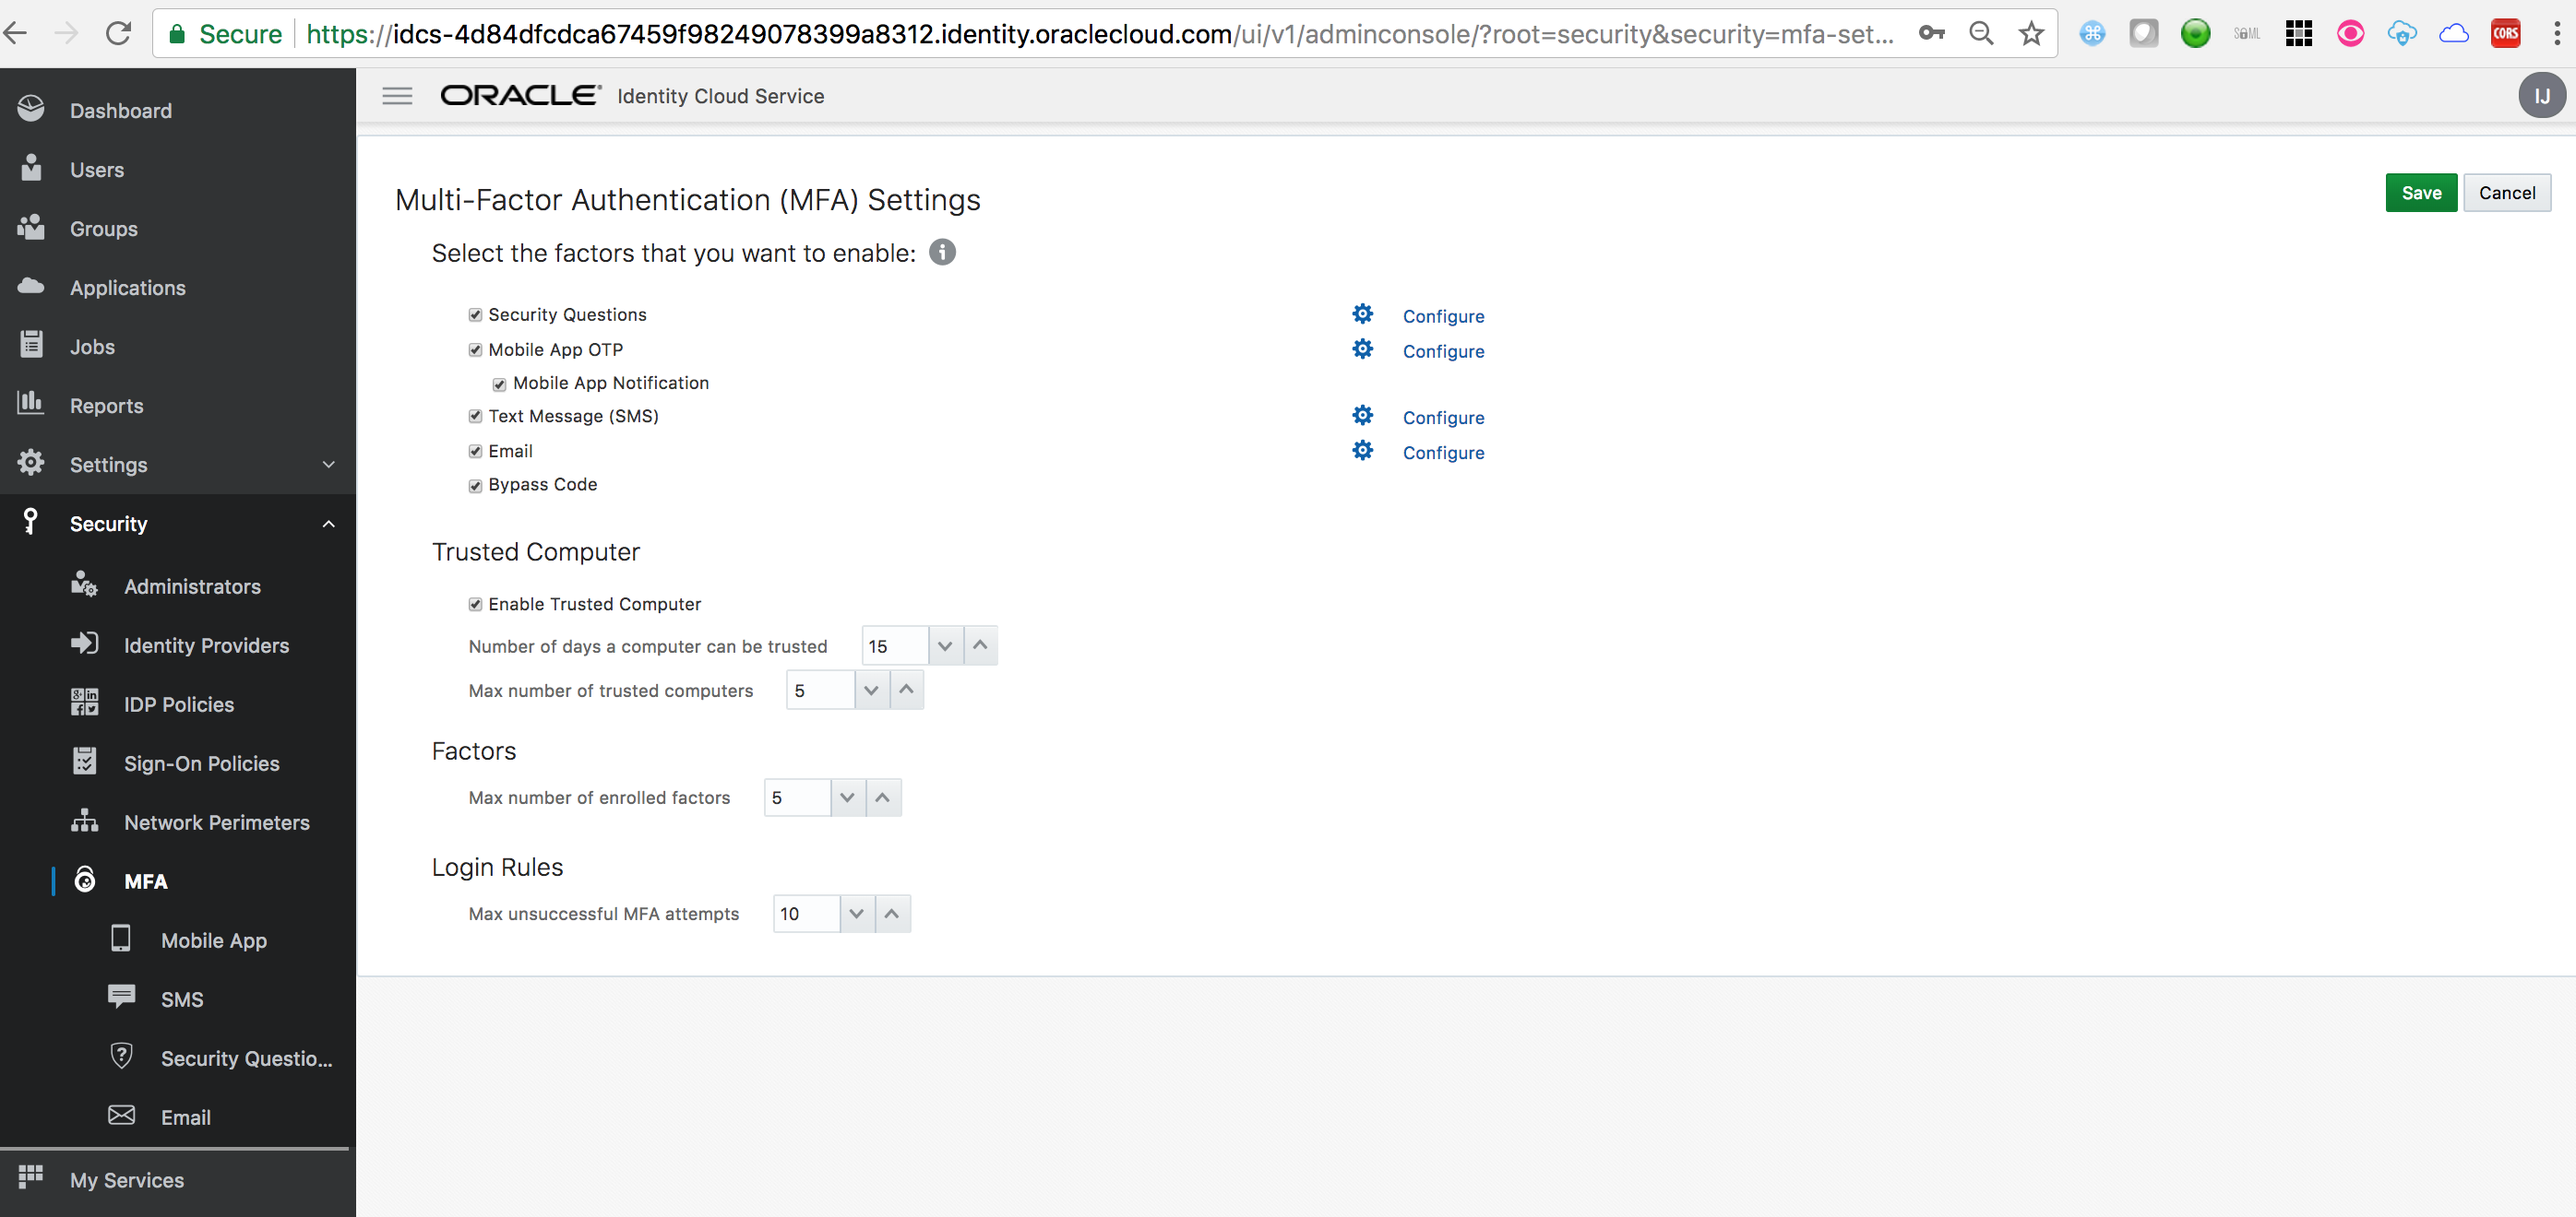
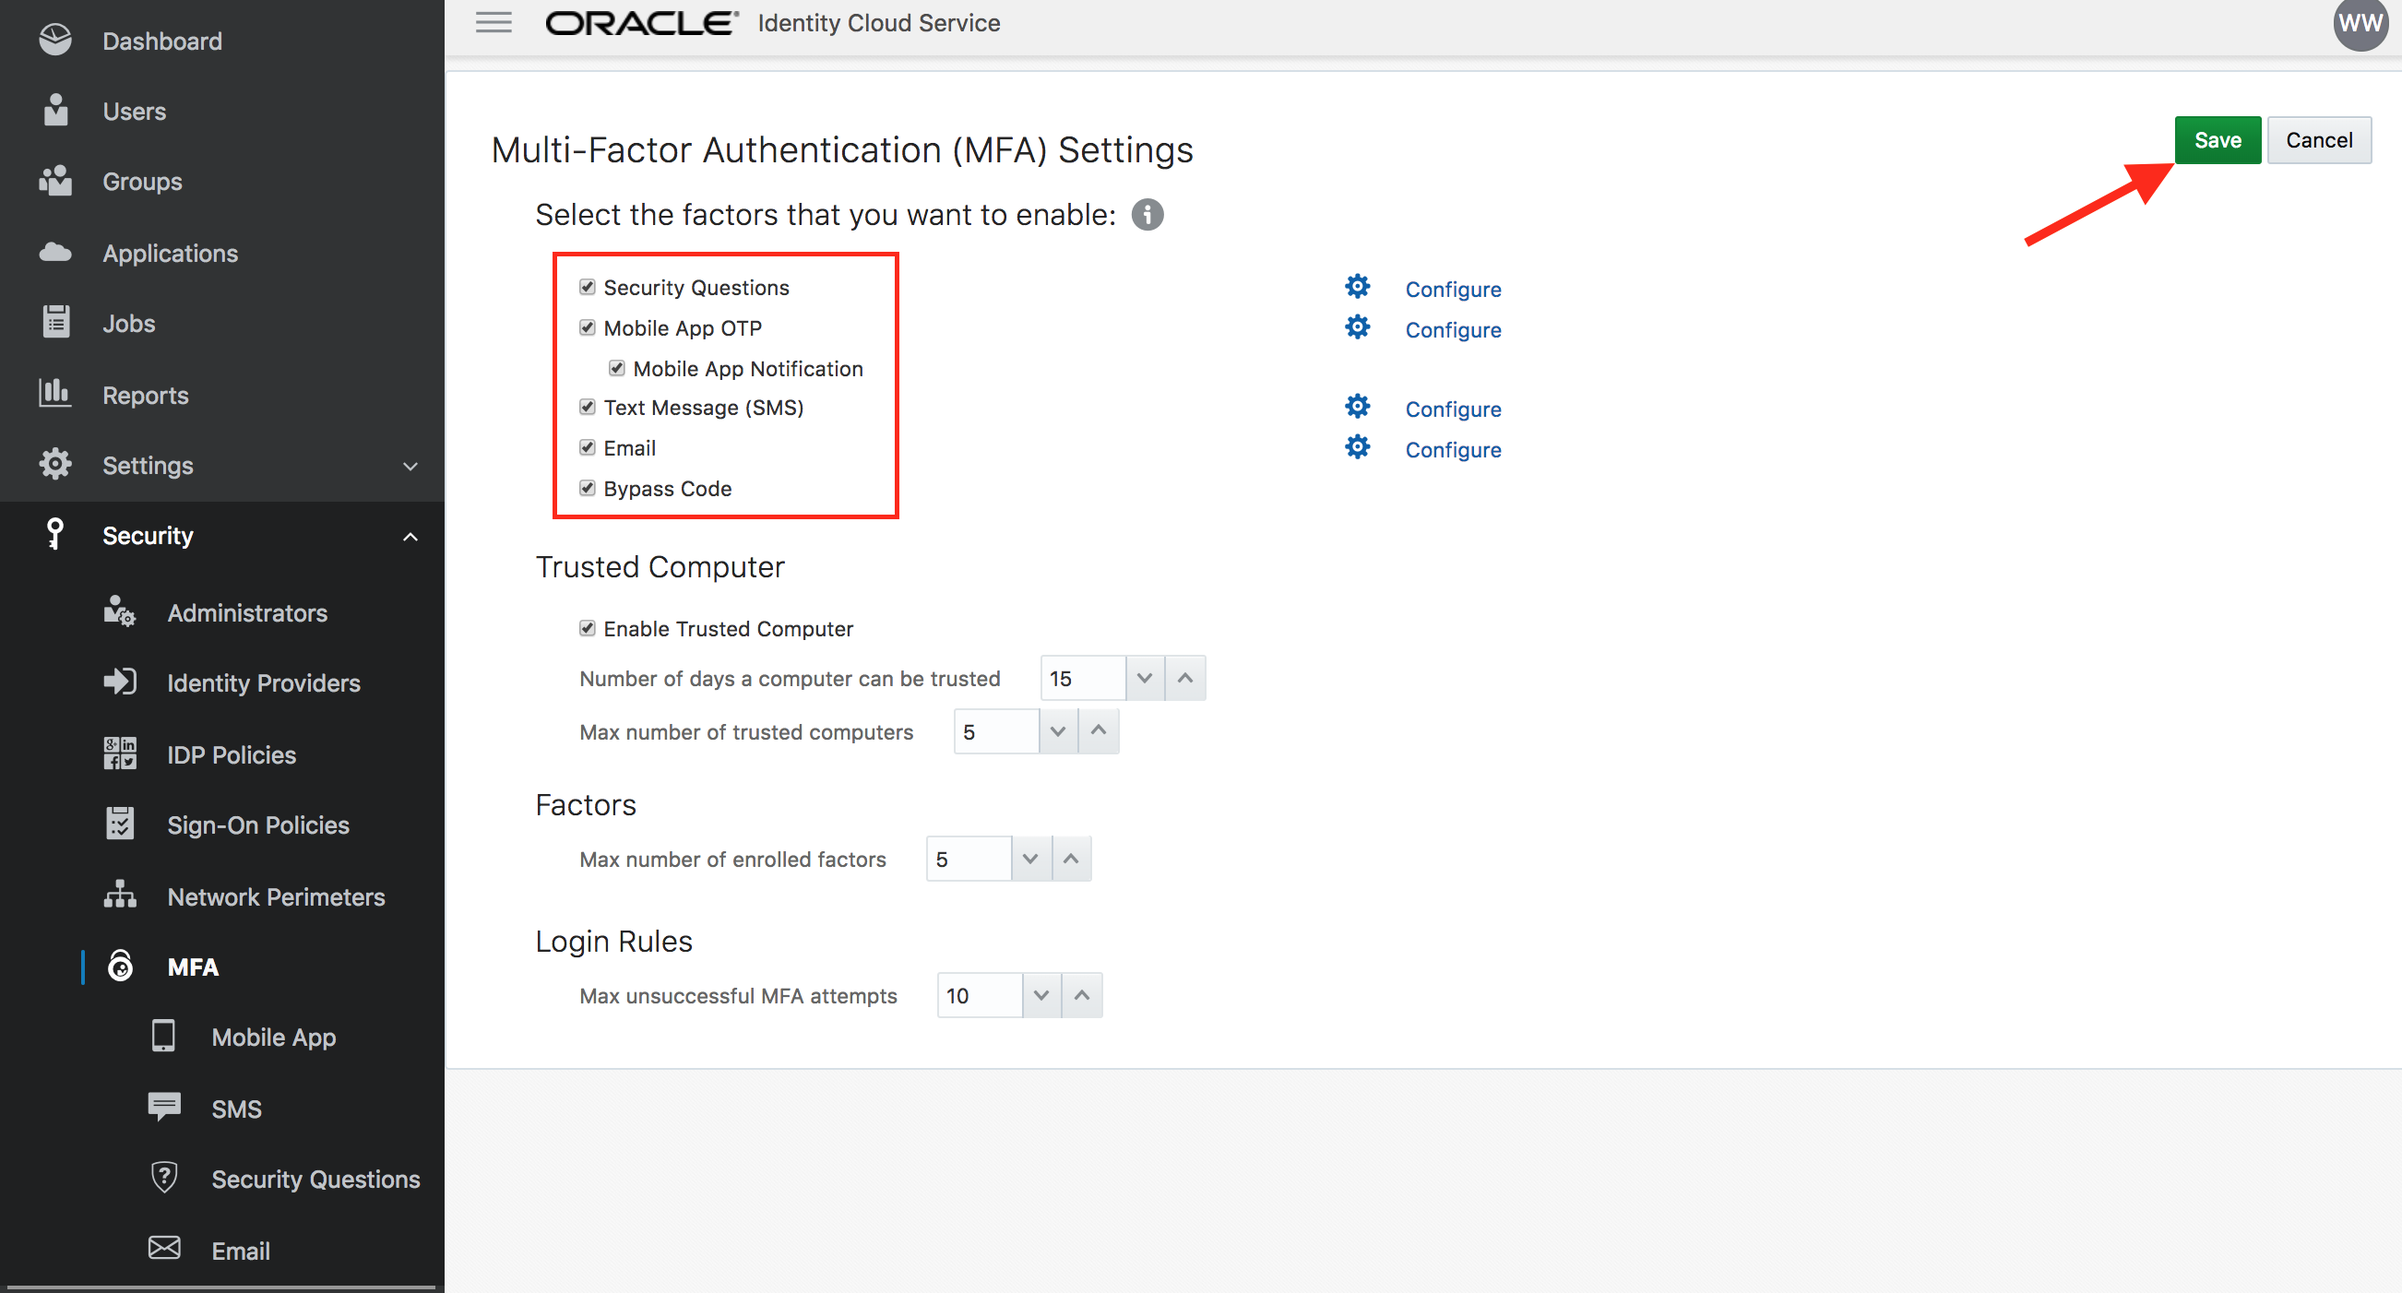
IDCS

diff --git a/IDCS100.md b/IDCS100.md
@@ -272,61 +272,90 @@ Organization ID : 00D1N000002M18V
 
 - Go to IDCS admin console -> **Groups** menu 
 
-	![](images/100/100-32.png)
+![](images/100/100-32.png)
 
-- Add group **Employee**. Check the box `User can request access`. 
+- Add group **Employees**. Check the box `User can request access`. Click on **Finish** 
 
-	![](images/100/100-33.png)
-
-- Click on **Finish** 
-
-	![](images/100/100-34.png)
+![](images/100/100-33.png)
+	
+![](images/100/100-33-1.png)
+	
+![](images/100/100-33-2.png)
 
 - Go to the **Access** tab. Click on **Assign**. 
 
+![](images/100/100-34.png)
+
 - Select **Salesforce** and confirm 
 
-	![](images/100/100-35.png)
+![](images/100/100-35.png)
 	
-	![](images/100/100-36.png)
+![](images/100/100-36.png)
 
 
 ## Configure multi-factor authentication - (Persona: Administrator)
 
-When a user signs in to an application, they are prompted for their user name and password, which is the first factor – something that they know. With **Multi Factor Authentication (MFA)** enabled in Oracle Identity Cloud Service, the user is then required to provide a second type of verification. This is called **2-Step Verification**.
+<blockquote>
+	<font color="blue">
+		<p>
+			When a user signs in to an application, they are prompted for their 			user name and password, which is the first factor – something that 			they know. With <b>Multi Factor Authentication (MFA)</b> enabled in 			Oracle Identity Cloud Service, the user is then required to provide 			a second type of verification. This is called <b>2-Step 			Verification</b>.
+		</p>
+		<p>
+			The two factors work together to add an additional layer of security 			by using either additional information or a second device to verify 			the user’s identity and complete the login process.
+		</p>
+	</font>
+</blockquote>
 
-The two factors work together to add an additional layer of security by using either additional information or a second device to verify the user’s identity and complete the login process.
 
+- From IDCS admin console, select **Security** -> **MFA** from the sidebar to the left.
 
-- Go to IDCS admin console. Select **Security** -> **MFA** from the sidebar to the left.
+![](images/100/100-37-0.png)  
 
+- Select all the options for **Select the factors that you want to enable**. Keep all other parameters to their default values. Click on **Save**.
 
-- Select all the options for **Select the factors that you want to enable:**
+![](images/100/100-37.png)  
 
-![](images/100/100-37.png)
+- Confirm new MFA settings.
 
-- Keep all other parameters to their default values. Click on **Save** 
-
-![](images/100/100-38.png)
+![](images/100/100-37-1.png)
 	
 - Select **Security** -> **Sign-On Policies** from the sidebar to the left of admin console.
 
+![](images/100/100-38.png)
+
+- Click on **Default Sign-On Policy**. This will open up the policy. 
+
 ![](images/100/100-38-1.png)
 
-- Click on **Default Sign-On Policy**. This will open up the policy. Go to the **Sign-On Rules** tab and click on **Edit** aganist **Default Sign-On Rule**.
+- Go to the **Sign-On Rules** tab and then click on **Edit** aganist the **Default Sign-On Rule**.
 
 ![](images/100/100-38-2.png)
 
-- Check the box **Prompt for an additional factor**. Set the value of **Enrollment** to `Optional`
-
 ![](images/100/100-38-3.png)
 
-- Click on **Save**
+- Check the box **Prompt for an additional factor**. Set the value of **Enrollment** to `Optional`. Click on **Save**.
+
+![](images/100/100-38-4.png)
+
+![](images/100/100-38-5.png)
+
 	
 
 ## Activate account - (Persona: End-User) 
 
-- Login to gmail as [demoidcs@gmail.com](). Go to the label corresponding to the user. Verify that there is an activation email from IDCS.
+<blockquote>
+	<font color="green">
+		<p>For end-user flow, use either a separate browser or an incognito/		private browser session. This will ensure that administrator and user 		sessions are not mixed up.</p>
+	</font>
+</blockquote>
+
+- Login to gmail as [demoidcs@gmail.com](). Go to the gmail label corresponding to your user. Verify that there is an activation email from IDCS.
+
+	<blockquote>
+		<font color="red">
+			Gmail password will be provided during session.
+		</font>
+	</blockquote>
 
 ![](images/100/100-39.png)
 
@@ -334,7 +363,6 @@ The two factors work together to add an additional layer of security by using ei
 
 ![](images/100/100-40.png)
 	
-
 - IDCS change password page will open up. Provide a suitable password that matches the listed **Password Criteria**. Click on **Submit**.
 
 ![](images/100/100-41.png)
